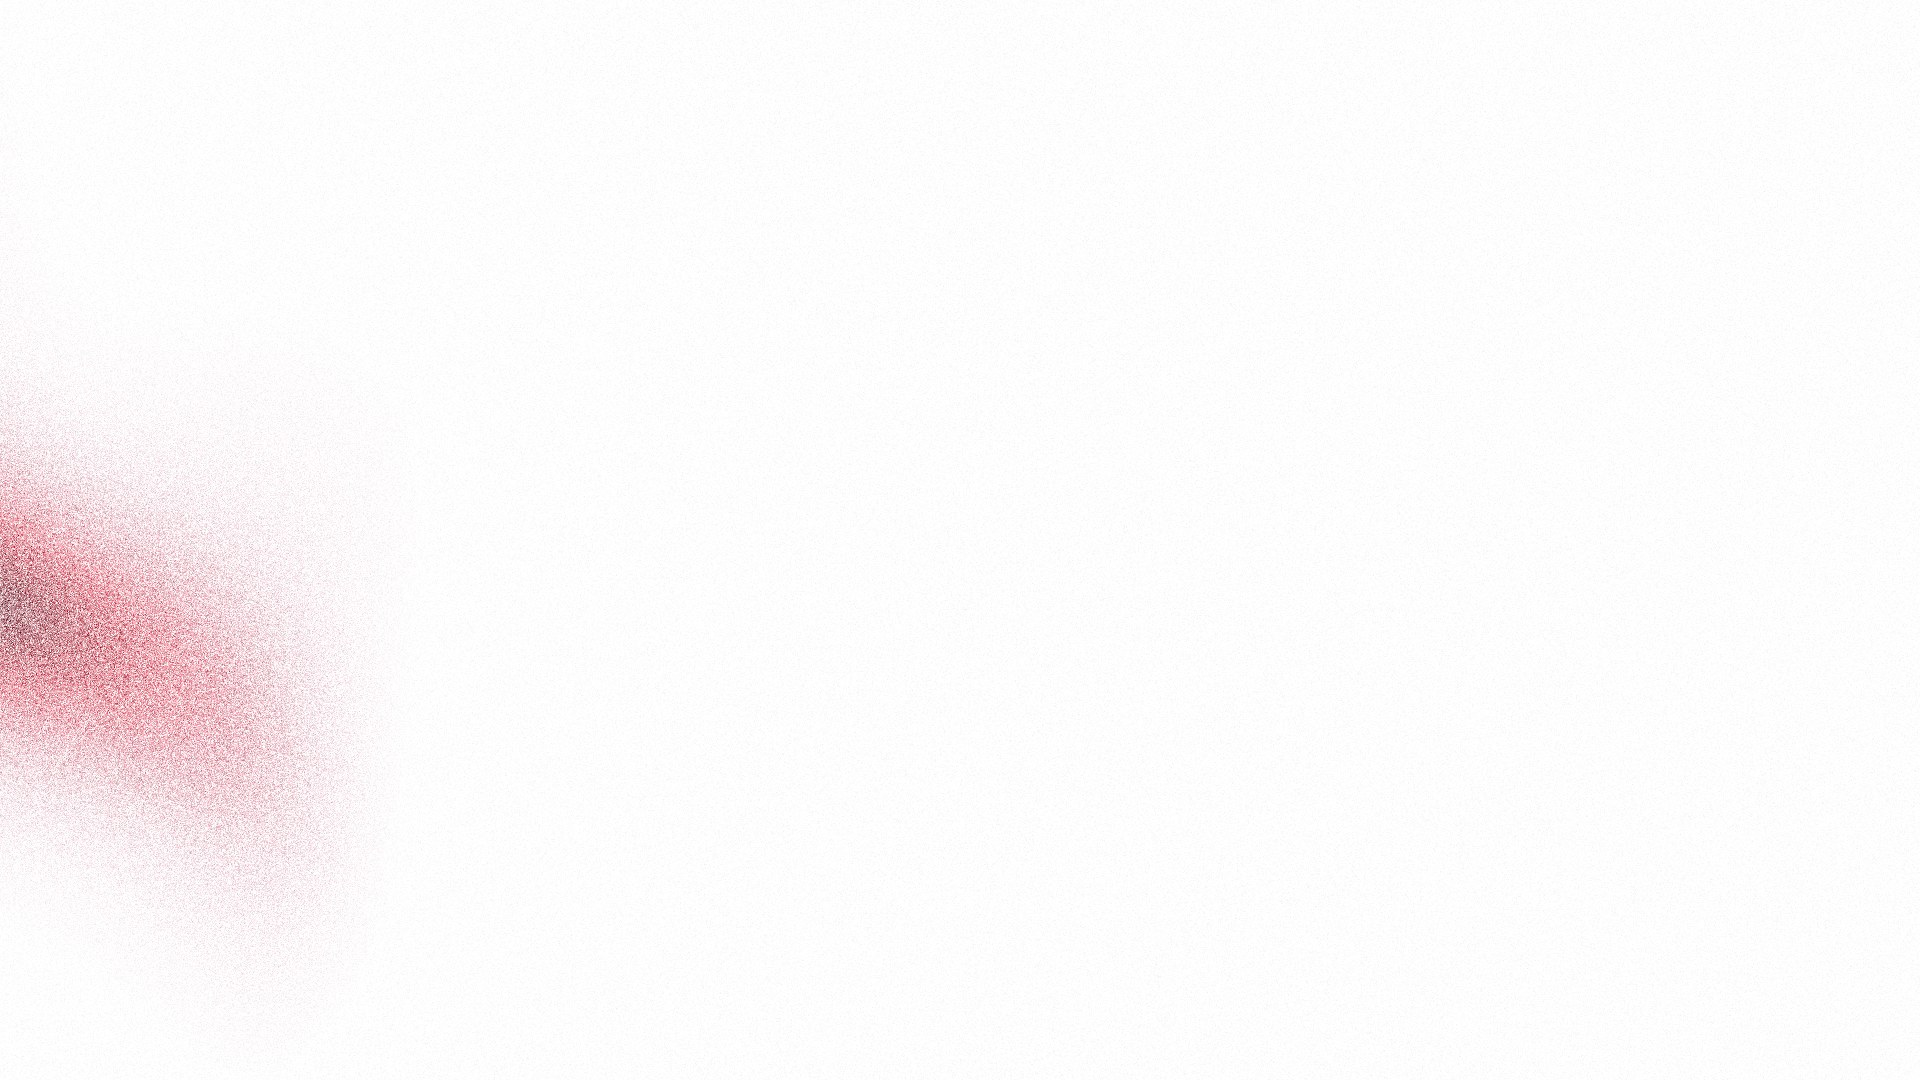
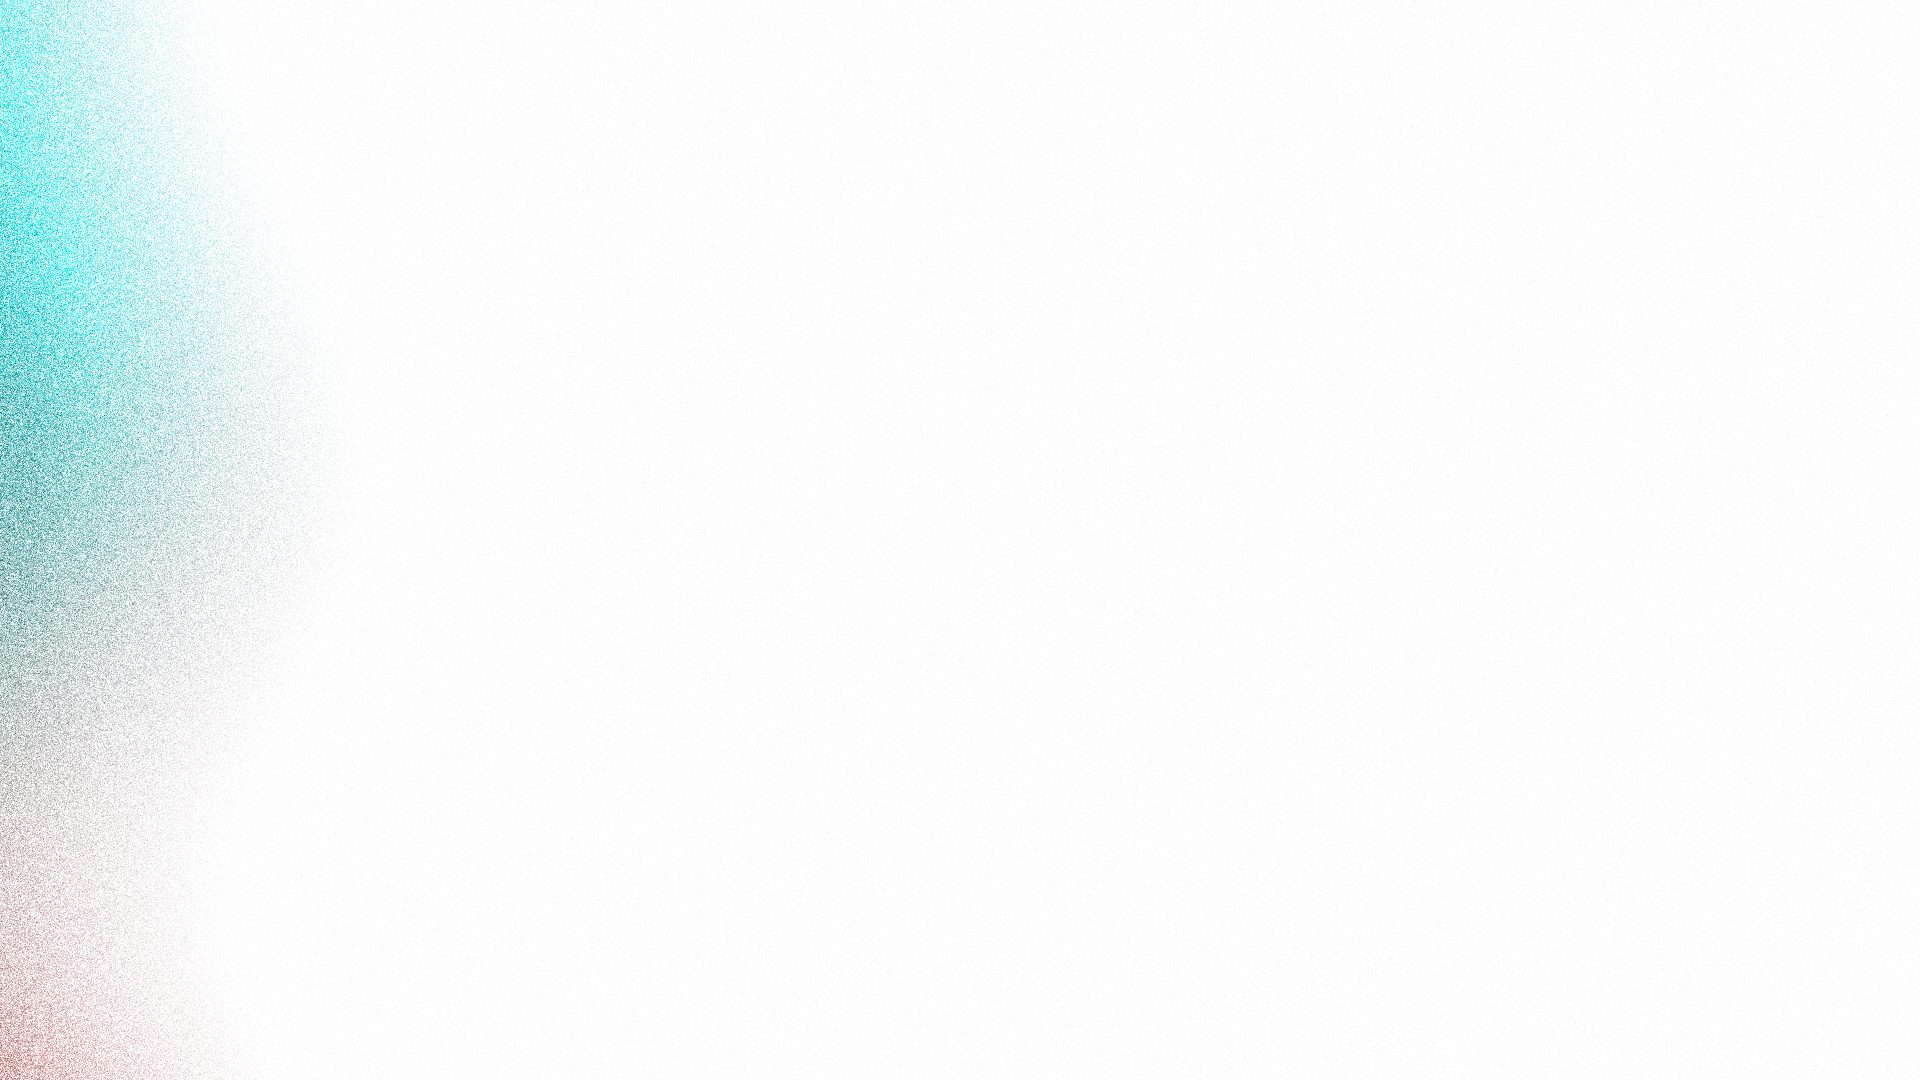
Six bloom covers with their closings, and legible edges on colour
The commercial decks now use the linear bloom. Six cover/closing pairs
(the closing mirrors its cover's colours); compose.py picks one from the
client's name so the same client always gets the same pair, and a brief
can fix it with cover_variant. Edge text (noisia.ai, the tagline, the
slide number) follows what is under it: grey on white, ink on a mid
tone, white on the dark core.

Changed region(s): [[0.0, 0.0, 0.1875, 1.0]]

diff --git a/packages/pitch-kit/commercial/builder/noisia_pptx.py b/packages/pitch-kit/commercial/builder/noisia_pptx.py
@@ -108,6 +108,19 @@ def fit(text, w, h, size, lh=1.3, min_ratio=0.8):
 
 
 _SPRITES = {}
+_BGLUM = {}
+
+
+def bg_luminance(path, box):
+    """Mean luminance (0..255) of a background image under a slide-pixel box."""
+    from PIL import Image
+    if path not in _BGLUM:
+        _BGLUM[path] = Image.open(path).convert("L").resize((W // 4, H // 4))
+    im = _BGLUM[path]
+    x0, y0, x1, y1 = [int(v / 4) for v in box]
+    crop = im.crop((max(0, x0), max(0, y0), max(x0 + 1, x1), max(y0 + 1, y1)))
+    px_ = list(crop.getdata())
+    return sum(px_) / max(1, len(px_))
 
 
 def sprite_cell(folder, sheet, name):
@@ -131,8 +144,9 @@ def sprite_cell(folder, sheet, name):
 
 
 class Deck:
-    def __init__(self, lang="es", mode="send", header_right="noisia.ai", portrait=False):
+    def __init__(self, lang="es", mode="send", header_right="noisia.ai", portrait=False, variant=1):
         self.lang, self.mode, self.header_right = lang, mode, header_right
+        self.variant = variant   # which cover/closing pair of the bloom family (1..6)
         self.prs = Presentation()
         if portrait:   # A4 one-pager
             self.prs.slide_width, self.prs.slide_height = Emu(7560310), Emu(10692130)
@@ -155,6 +169,7 @@ class Deck:
     def new(self, bg=None, notes=""):
         s = self.prs.slides.add_slide(self.prs.slide_layouts[6])
         self.n += 1
+        s._noisia_bg = None
         if bg:
             self.background(s, bg)
         s._noisia_notes = [notes] if notes else []
@@ -164,6 +179,7 @@ class Deck:
         path = os.path.join(ASSETS, "shapes", name)
         if not os.path.exists(path):
             path = os.path.join(ASSETS, "bg", name)
+        s._noisia_bg = path
         _, rid = s.part.get_or_add_image_part(path)
         bg = etree.fromstring(
             '<p:bg xmlns:p="http://schemas.openxmlformats.org/presentationml/2006/main" '
@@ -305,7 +321,7 @@ class Deck:
         self.text(s, x, y, w, h, label, size, color, bold=bold, align="c", anchor="m", fit_box=False)
         return w
 
-    def slide_number(self, s, x, y, w, h, dark=False):
+    def slide_number(self, s, x, y, w, h, dark=False, color=None):
         tb = s.shapes.add_textbox(px(x), px(y), px(w), px(h))
         tf = tb.text_frame
         tf.margin_left = tf.margin_right = tf.margin_top = tf.margin_bottom = 0
@@ -317,7 +333,7 @@ class Deck:
         rpr = etree.SubElement(fld, qn("a:rPr"))
         rpr.set("lang", "es-MX"); rpr.set("sz", "775"); rpr.set("b", "1")
         fill = etree.SubElement(rpr, qn("a:solidFill"))
-        etree.SubElement(fill, qn("a:srgbClr")).set("val", "ffffff" if dark else FG)
+        etree.SubElement(fill, qn("a:srgbClr")).set("val", "ffffff" if dark else (color or FG))
         latin = etree.SubElement(rpr, qn("a:latin")); latin.set("typeface", FONT)
         t = etree.SubElement(fld, qn("a:t")); t.text = str(self.n)
 
@@ -326,13 +342,30 @@ class Deck:
         logo = "noisia-white.png" if dark else "noisia.png"
         self.image(s, os.path.join(ASSETS, "logo", logo), PADX, 62, h=30, name="Logo Noisia")
         edge = "c9d3d6" if dark else EDGE
+        bg = getattr(s, "_noisia_bg", None)
+
+        def edge_for(box):
+            """Edge text follows what is under it: the usual grey on white, ink on a mid tone of
+            the bloom, white on its dark core."""
+            if dark:
+                return "c9d3d6", True
+            if bg is None:
+                return EDGE, False
+            lum = bg_luminance(bg, box)
+            if lum >= 215:
+                return EDGE, False
+            return ("2b2b2b", False) if lum >= 135 else ("ffffff", True)
+
         hr = self.header_right if header_right is None else header_right
         if hr:
-            self.text(s, W - PADX - 600, 66, 600, 24, hr, 15.5, edge, align="r", fit_box=False)
+            col, _ = edge_for((W - PADX - 160, 60, W - PADX, 96))
+            self.text(s, W - PADX - 600, 66, 600, 24, hr, 15.5, col, align="r", fit_box=False)
         if footer:
-            self.text(s, PADX, H - 66, 700, 22, "noisia · social intelligence architects", 15.5, edge,
+            col, _ = edge_for((PADX, H - 72, PADX + 380, H - 40))
+            self.text(s, PADX, H - 66, 700, 22, "noisia · social intelligence architects", 15.5, col,
                       fit_box=False)
-            self.slide_number(s, W - PADX - 200, H - 66, 200, 22, dark)
+            col, white = edge_for((W - PADX - 40, H - 72, W - PADX, H - 40))
+            self.slide_number(s, W - PADX - 200, H - 66, 200, 22, white, color=None if white else col)
 
     def eyebrow(self, *a, **k):
         """Commercial decks carry no eyebrows: a label above the title reads as AI slop
@@ -365,7 +398,7 @@ class Deck:
     def cover(self, d):
         """Kit cover: illustration bleeding right, copy anchored bottom-left. With `client`,
         it becomes the prepared-for cover and carries a client-logo slot."""
-        s = self.new(bg=d.get("bg", "cover.jpg"), notes=d.get("notes"))
+        s = self.new(bg=d.get("bg", f"cover-{self.variant}.jpg"), notes=d.get("notes"))
         self.chrome(s, header_right=d.get("header_right", self.header_right))
         y = 360 if d.get("client") else 400
         size, _ = fit(d["title"].replace("**", ""), 1000, 290, 76, 1.04)
@@ -1033,7 +1066,7 @@ class Deck:
         return s
 
     def closing(self, d):
-        s = self.new(bg=d.get("bg", "closing.jpg"), notes=d.get("notes"))
+        s = self.new(bg=d.get("bg", f"closing-{self.variant}.jpg"), notes=d.get("notes"))
         self.chrome(s)
         size, _ = fit(d["title"].replace("**", ""), 1000, 360, 72, 1.05)
         lines = min(4, _lines(d["title"].replace("**", ""), 1000, size))

diff --git a/packages/pitch-kit/commercial/builder/make_shapes.py b/packages/pitch-kit/commercial/builder/make_shapes.py
@@ -125,9 +125,14 @@ def bloom(seed=11, strength=1.0, red=0.5, blobs=(), size=(1920, 1080), colour=(4
 # reach (how far the colour travels, fraction of width), strength (alpha cap), depth (how much of the
 # navy core shows), tilt (+ puts red below, - puts red above), seed.
 LINEAR = {
-    "cover":     dict(seed=7, fx=1.02, fy=0.45, ang=188, reach=0.50, strength=1.0, depth=1.0, tilt=0.9,
+    # Six covers; each deck gets one, chosen from the client's name so it is stable per client.
+    "cover-1":   dict(seed=7, fx=1.02, fy=0.45, ang=188, reach=0.50, strength=1.0, depth=1.0, tilt=0.9,
                       across_y=True),
-    "closing":   dict(seed=12, fx=1.03, fy=0.62, ang=196, reach=0.52, strength=1.0, depth=1.0, tilt=-1.1),
+    "cover-2":   dict(seed=27, fx=1.02, fy=0.55, ang=180, reach=0.48, strength=1.0, depth=1.0, tilt=-1.0),
+    "cover-3":   dict(seed=33, fx=1.03, fy=0.30, ang=170, reach=0.50, strength=1.0, depth=1.0, tilt=1.1),
+    "cover-4":   dict(seed=41, fx=1.04, fy=0.75, ang=196, reach=0.52, strength=1.0, depth=1.0, tilt=-0.8),
+    "cover-5":   dict(seed=52, fx=1.02, fy=0.50, ang=184, reach=0.46, strength=1.0, depth=1.0, tilt=0.4),
+    "cover-6":   dict(seed=64, fx=1.03, fy=0.20, ang=160, reach=0.55, strength=1.0, depth=1.0, tilt=0.9),
     "statement": dict(seed=5, fx=0.82, fy=-0.06, ang=110, reach=0.42, strength=0.95, depth=0.9, tilt=0.7),
     "frag-1":    dict(seed=21, fx=1.03, fy=0.50, ang=180, reach=0.2, strength=0.62, depth=0.35, tilt=0.9),
     "frag-2":    dict(seed=22, fx=0.56, fy=1.06, ang=268, reach=0.16, strength=0.6, depth=0.35, tilt=0.0),
@@ -138,6 +143,13 @@ LINEAR = {
     "onepager":  dict(seed=31, fx=1.04, fy=1.01, ang=225, reach=0.62, strength=0.7, depth=0.55, tilt=1.2,
                       size=(1191, 1684)),
 }
+
+
+for _i in range(1, 7):
+    _c = dict(LINEAR[f"cover-{_i}"])
+    _c.pop("across_y", None)
+    _c.update(seed=_c["seed"] + 100, tilt=-_c["tilt"], fy=min(0.9, max(0.1, 1.0 - _c["fy"])))
+    LINEAR[f"closing-{_i}"] = _c
 
 
 def linear(seed=7, fx=1.02, fy=0.45, ang=188, reach=0.5, strength=1.0, depth=1.0, tilt=0.9,
@@ -222,9 +234,9 @@ if __name__ == "__main__":
         print(sheet(a.sheet))
     if a.build:
         os.makedirs(OUT, exist_ok=True)
-        for n in COMPOSITIONS:
+        for n in (LINEAR if MODE == "linear" else COMPOSITIONS):
             if a.only and n not in a.only.split(","):
                 continue
             p = os.path.join(OUT, f"{n}.jpg")
-            compose(n).save(p, quality=88, optimize=True, progressive=True)
+            compose(n).save(p, quality=82, optimize=True, progressive=True)
             print(p)

diff --git a/packages/pitch-kit/commercial/builder/compose.py b/packages/pitch-kit/commercial/builder/compose.py
@@ -16,6 +16,7 @@ writes what is genuinely about this client.
       "vars": {"CLIENTE": "...", "MERCADO": "México", "FECHA": "Octubre 2026",
                "MONEDA": "USD", "IMPUESTOS": "más impuestos", "FIRMA": "...", "EMAIL": "..."},
       "client_logo": "logo.png",            # optional; otherwise a replaceable slot
+      "cover_variant": 3,                   # optional, 1..6; else picked from the client's name
       "include": ["sample", "engine"],      # optional modules to switch on
       "exclude": ["coverage"],              # recipe modules to drop
       "slides": {"questions_client": {...}, "statement_punch": {...}}
@@ -87,7 +88,12 @@ def compose(brief):
             print("  ·", m)
         sys.exit(1)
     vars_ = dict(brief.get("vars", {}))
-    spec = {"lang": lang, "mode": brief.get("mode", "send"),
+    # Each deck gets one of the six cover/closing pairs, chosen from the client's name so the same
+    # client always gets the same one and two clients rarely share it. `cover_variant` fixes it.
+    import zlib
+    who = vars_.get("CLIENTE") or vars_.get("CLIENT") or deliv
+    variant = int(brief.get("cover_variant") or zlib.crc32(who.encode("utf-8")) % 6 + 1)
+    spec = {"lang": lang, "mode": brief.get("mode", "send"), "variant": variant,
             "header_right": brief.get("header_right", "noisia.ai"),
             "portrait": deliv == "onepager",
             "slides": substitute(slides, vars_)}

diff --git a/packages/pitch-kit/commercial/builder/build_deck.py b/packages/pitch-kit/commercial/builder/build_deck.py
@@ -98,7 +98,8 @@ def build(spec, out, pdf=False):
             print("  ·", e)
         sys.exit(1)
     deck = Deck(lang=spec.get("lang", "es"), mode=spec.get("mode", "send"),
-                header_right=spec.get("header_right", "noisia.ai"), portrait=spec.get("portrait", False))
+                header_right=spec.get("header_right", "noisia.ai"), portrait=spec.get("portrait", False),
+                variant=int(spec.get("variant", 1)))
     for sl in spec["slides"]:
         SLIDES[sl["type"]](deck, sl)
     deck.save(out)

diff --git a/packages/pitch-kit/commercial/COMMERCIAL.md b/packages/pitch-kit/commercial/COMMERCIAL.md
@@ -33,15 +33,19 @@ vive en portadas y fondos, nunca en la UI: las cards, la tipografía, los ícono
 los mismos del sistema de diseño.
 
 - **Portada, statement y cierre** llevan el *bloom* de Noisia sobre lienzo blanco, con el texto a
-  la izquierda y el color a la derecha. Reemplaza a la ilustración de personas, que queda para los
-  estudios.
-- **Las slides de contenido** llevan un bloom chico y tenue que sale por la mitad de un borde, nunca
+  la izquierda y el color entrando desde el borde derecho. Reemplaza a la ilustración de personas,
+  que queda para los estudios.
+- **Seis portadas, cada una con su cierre.** Cada deck usa una pareja, elegida a partir del nombre
+  del cliente: el mismo cliente siempre recibe la misma y dos clientes casi nunca comparten. El
+  brief puede fijarla con `"cover_variant": 1..6`.
+- **Las slides de contenido** llevan un bloom chico y tenue que entra por la mitad de un borde, nunca
   por una esquina: en las esquinas viven el logo, `noisia.ai`, el pie y el número.
-- **El bloom se hace por código** (`builder/make_shapes.py`). No es una figura con contorno: es un
-  campo de color abstracto que se funde con el blanco. Colores apagados en las orillas que se
-  saturan hacia los oficiales, cyan `#00EEEE` y rojo `#EE0B00`, donde el color es más denso, con un
-  núcleo navy profundo; bordes disueltos con grano, sin halo; y grano intenso sobre el color, que es
-  lo que lo distingue de un degradado genérico. Una composición nueva se agrega ahí.
+- **El bloom se hace por código** (`builder/make_shapes.py`, modo lineal). No es una figura con
+  contorno: el color nace en un punto focal del borde y avanza con un frente ondulado. Navy profundo
+  junto al foco, cyan `#00EEEE` y rojo `#EE0B00` a media distancia, apagados en el frente, y se
+  disuelve en el blanco con grano intenso, que es lo que lo distingue de un degradado genérico.
+- **El texto de las orillas** (`noisia.ai`, el pie y el número) cambia solo según lo que tiene
+  detrás: gris sobre blanco, tinta sobre un tono medio, blanco sobre el núcleo oscuro.
 - **UI:** cards `#fafafa` con borde `#eeeeee` y radio 16; íconos reales; sin sombras, sin bordes
   laterales, sin gradientes en un valor, sin eyebrows (§6).
 
